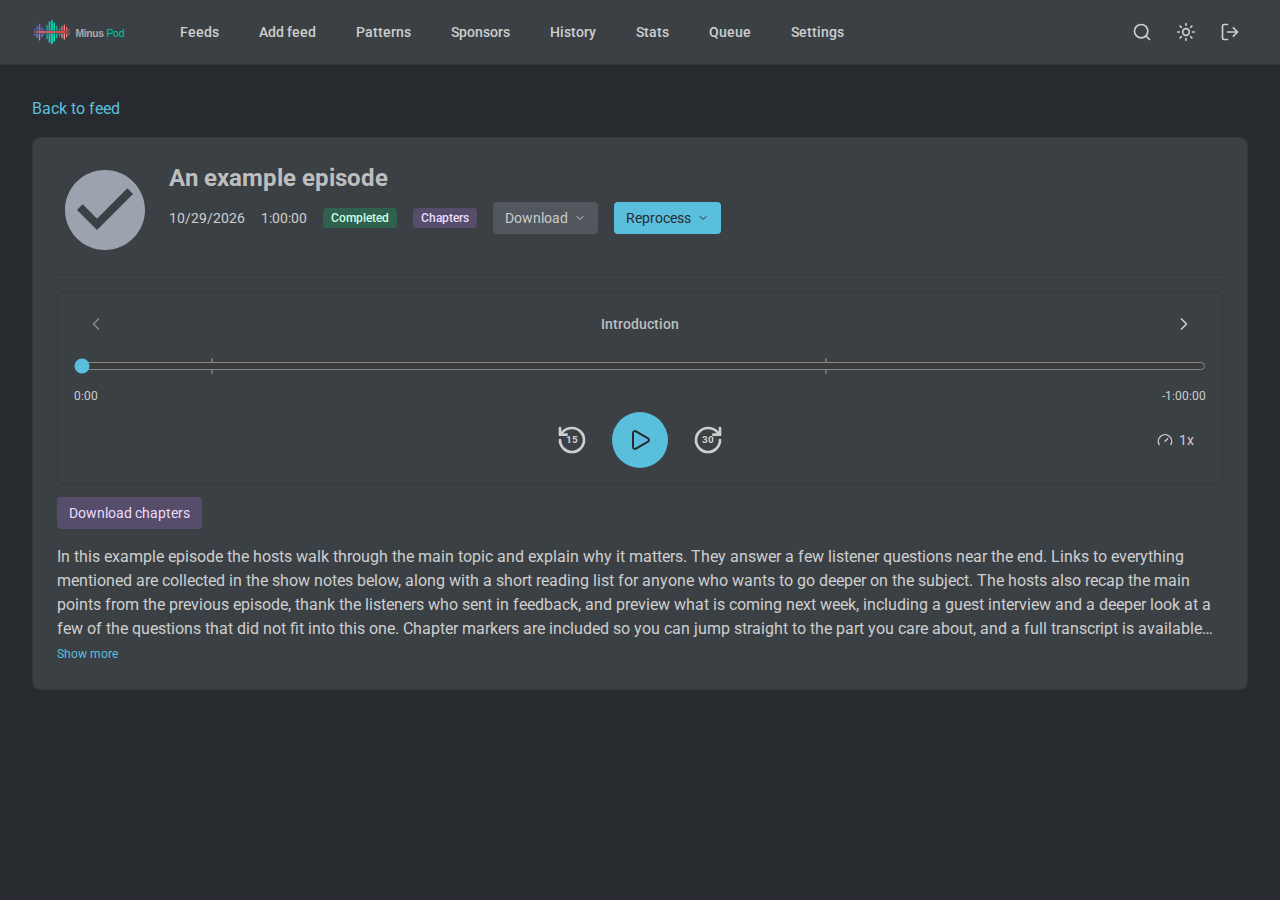
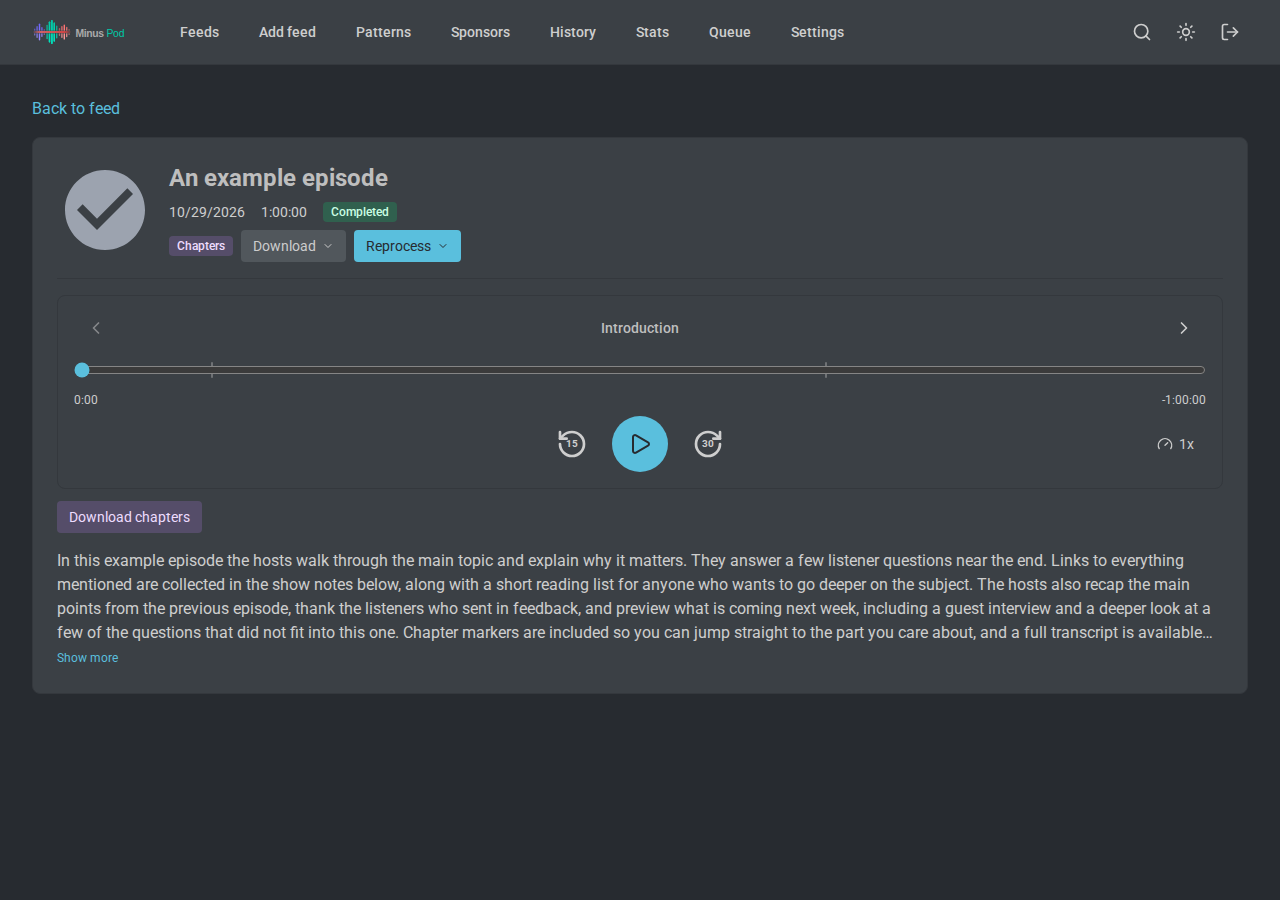
Keep the episode header controls on one line

diff --git a/frontend/src/pages/EpisodeDetail.tsx b/frontend/src/pages/EpisodeDetail.tsx
@@ -1033,32 +1033,34 @@ function EpisodeDetail() {
       )}
 
       <div className="bg-card rounded-lg border border-border p-4 sm:p-6 mb-6">
-        <div className="flex gap-4">
-          <div className="w-16 h-16 sm:w-24 sm:h-24 shrink-0">
+        <div className="grid grid-cols-[4rem_minmax(0,1fr)] sm:grid-cols-[6rem_minmax(0,1fr)] sm:grid-rows-[auto_1fr] gap-x-4 gap-y-2">
+          <div className="w-16 h-16 sm:w-24 sm:h-24 shrink-0 sm:row-span-2">
             <Artwork
               src={episodeArtworkSrc(slug!, episode.id, episode.artworkUrl, feed?.artworkUrl)}
               alt="Podcast artwork"
               className="w-full h-full object-cover rounded-lg"
             />
           </div>
-          <div className="flex flex-col gap-2 min-w-0">
-            <h1 className={pageTitle}>{episode.title}</h1>
-            <div className="flex flex-wrap items-center gap-2 sm:gap-4 text-sm text-muted-foreground">
-              <span>{formatDate(episode.published)}</span>
+          <h1 className={`${pageTitle} min-w-0`}>{episode.title}</h1>
+          <div className="col-span-2 sm:col-span-1 sm:col-start-2 flex flex-col gap-2 min-w-0 text-sm text-muted-foreground">
+            <div className="flex flex-nowrap items-center gap-2 sm:gap-4">
+              <span className="shrink-0">{formatDate(episode.published)}</span>
               {episode.status === 'completed' && episode.newDuration ? (
-                <span>{formatDuration(episode.newDuration)}</span>
+                <span className="shrink-0">{formatDuration(episode.newDuration)}</span>
               ) : episode.duration ? (
-                <span>{formatDuration(episode.duration)}</span>
+                <span className="shrink-0">{formatDuration(episode.duration)}</span>
               ) : null}
-              {episode.fileSize && (
-                <span>{formatFileSize(episode.fileSize)}</span>
-              )}
               <StatusBadge
                 status={episode.status}
                 jobState={episode.jobState}
-                className={failureReason ? 'cursor-help' : undefined}
+                className={`shrink-0 ${failureReason ? 'cursor-help' : ''}`.trim()}
                 title={failureReason}
               />
+            </div>
+            <div className="flex flex-wrap items-center gap-2 sm:gap-4 empty:hidden">
+              {episode.fileSize && (
+                <span>{formatFileSize(episode.fileSize)}</span>
+              )}
               {sbLabel && <span className="text-xs text-muted-foreground">{sbLabel}</span>}
               {episode.passthroughEnabled && (
                 <span
@@ -1087,11 +1089,6 @@ function EpisodeDetail() {
               {episode.transcriptVttAvailable && (
                 <span className={`${badgeBase} ${tint.blue}`}>
                   VTT
-                </span>
-              )}
-              {episode.chaptersAvailable && (
-                <span className={`${badgeBase} ${tint.purple}`}>
-                  Chapters
                 </span>
               )}
               {episode.daiDifferential && (
@@ -1142,10 +1139,17 @@ function EpisodeDetail() {
                   title="Every run this episode has had"
                 />
               )}
+            </div>
+            <div className="flex flex-nowrap items-center gap-2 max-sm:gap-1">
+              {episode.chaptersAvailable && (
+                <span className={`${badgeBase} ${tint.purple} shrink-0 max-sm:px-1.5`}>
+                  Chapters
+                </span>
+              )}
               {downloadItems.length > 0 && (
                 <DropdownMenu
                   triggerLabel="Download"
-                  triggerClassName={`${btnBase} ${btnSecondary}`}
+                  triggerClassName={`${btnBase} ${btnSecondary} shrink-0 max-sm:px-1.5 max-sm:gap-1`}
                   chevronClassName="w-3 h-3"
                   title="Download audio"
                   items={downloadItems}
@@ -1153,7 +1157,7 @@ function EpisodeDetail() {
               )}
               <DropdownMenu
                 triggerLabel={reprocessTriggerLabel}
-                triggerClassName={`${btnBase} ${btnPrimary}`}
+                triggerClassName={`${btnBase} ${btnPrimary} shrink-0 max-sm:px-1.5 max-sm:gap-1`}
                 chevronClassName="w-3 h-3"
                 disabled={reprocessBlocked}
                 title={reprocessTriggerTooltip}

diff --git a/frontend/e2e/player-visual.spec.ts b/frontend/e2e/player-visual.spec.ts
@@ -119,6 +119,22 @@ for (const width of WIDTHS) {
       await player.scrollIntoViewIfNeeded();
       await page.waitForTimeout(400);
 
+      // Header rows stay on one line: row height equals one control, no page scroll.
+      const rows = [
+        page.locator('div.flex-nowrap').filter({ hasText: 'Completed' }).filter({ hasNot: page.getByRole('button') }).first(),
+        page.locator('div.flex-nowrap').filter({ has: page.getByRole('button', { name: 'Reprocess' }) }).first(),
+      ];
+      const firstControls = [page.getByText('Completed', { exact: true }), page.getByRole('button', { name: 'Reprocess' })];
+      for (const [i, row] of rows.entries()) {
+        const rowBox = (await row.boundingBox())!;
+        const controlBox = (await firstControls[i].boundingBox())!;
+        expect(await row.evaluate((el) => el.scrollHeight)).toBeLessThanOrEqual(Math.ceil(controlBox.height) + 1);
+        expect(rowBox.height).toBeLessThanOrEqual(Math.ceil(controlBox.height) + 1);
+        const fit = await row.evaluate((el) => [el.scrollWidth, el.clientWidth, el.scrollHeight]);
+        console.log(`header row ${i} ${width}`, fit.join('/'), controlBox.height);
+        expect(fit[0]).toBeLessThanOrEqual(fit[1]);
+      }
+      expect(await page.evaluate(() => document.documentElement.scrollWidth <= window.innerWidth)).toBe(true);
       const measured: Record<string, string> = {};
       const buttons: Array<[string | RegExp, number]> = [
         ['Play', 56], ['Previous chapter', 44], ['Next chapter', 44],
